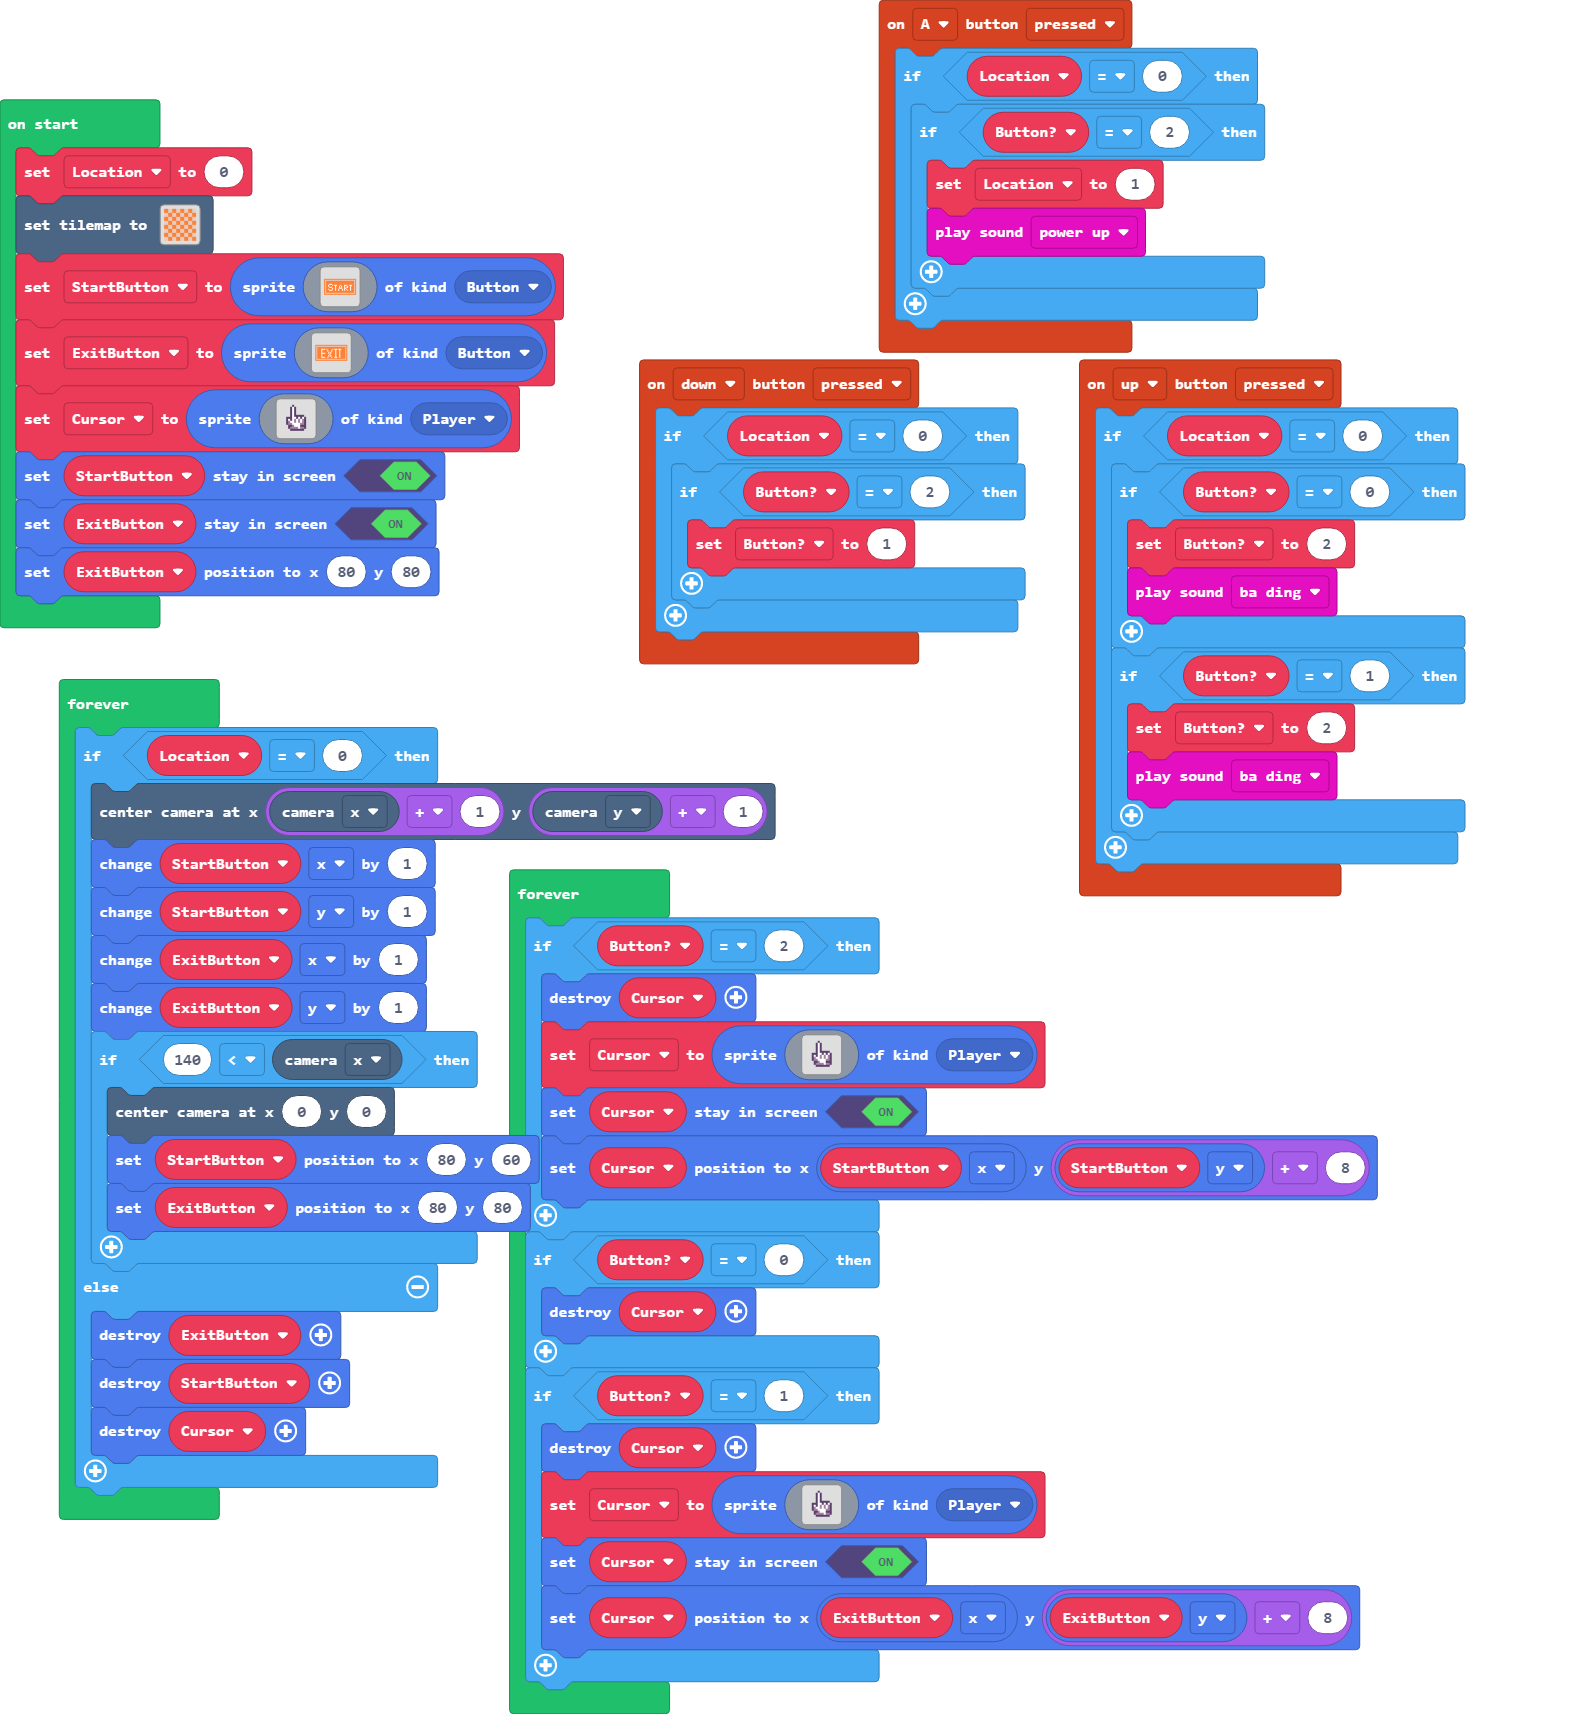
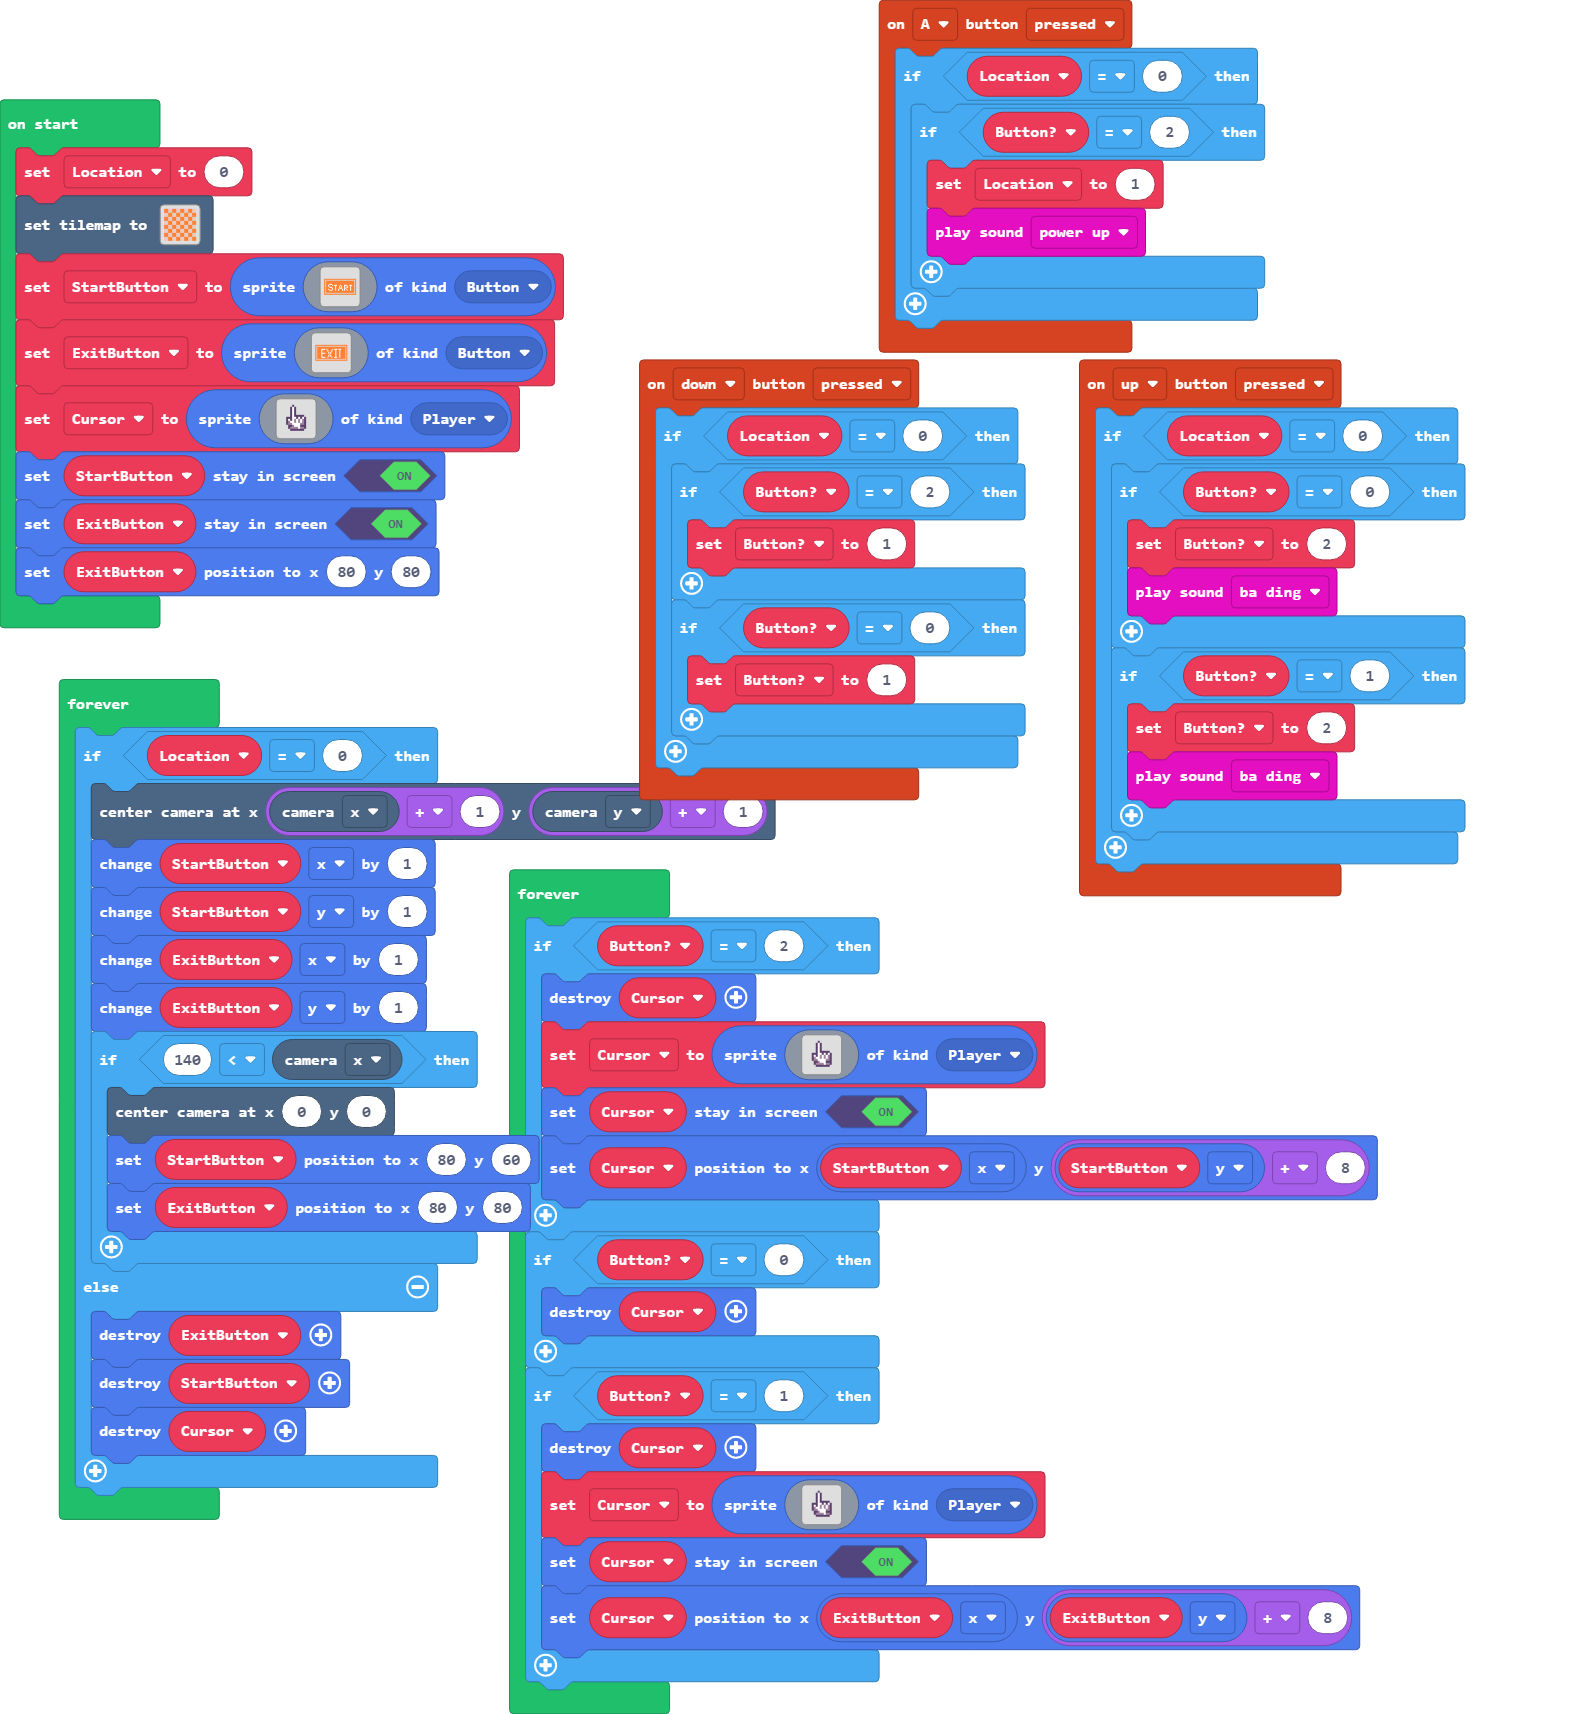
Update main.blocks, main.ts

Changed region(s): [[0.406, 0.3401, 0.6558, 0.4947]]

diff --git a/main.ts b/main.ts
@@ -26,6 +26,9 @@ controller.down.onEvent(ControllerButtonEvent.Pressed, function () {
         if (Button == 2) {
             Button = 1
         }
+        if (Button == 0) {
+            Button = 1
+        }
     }
 })
 let Button = 0
